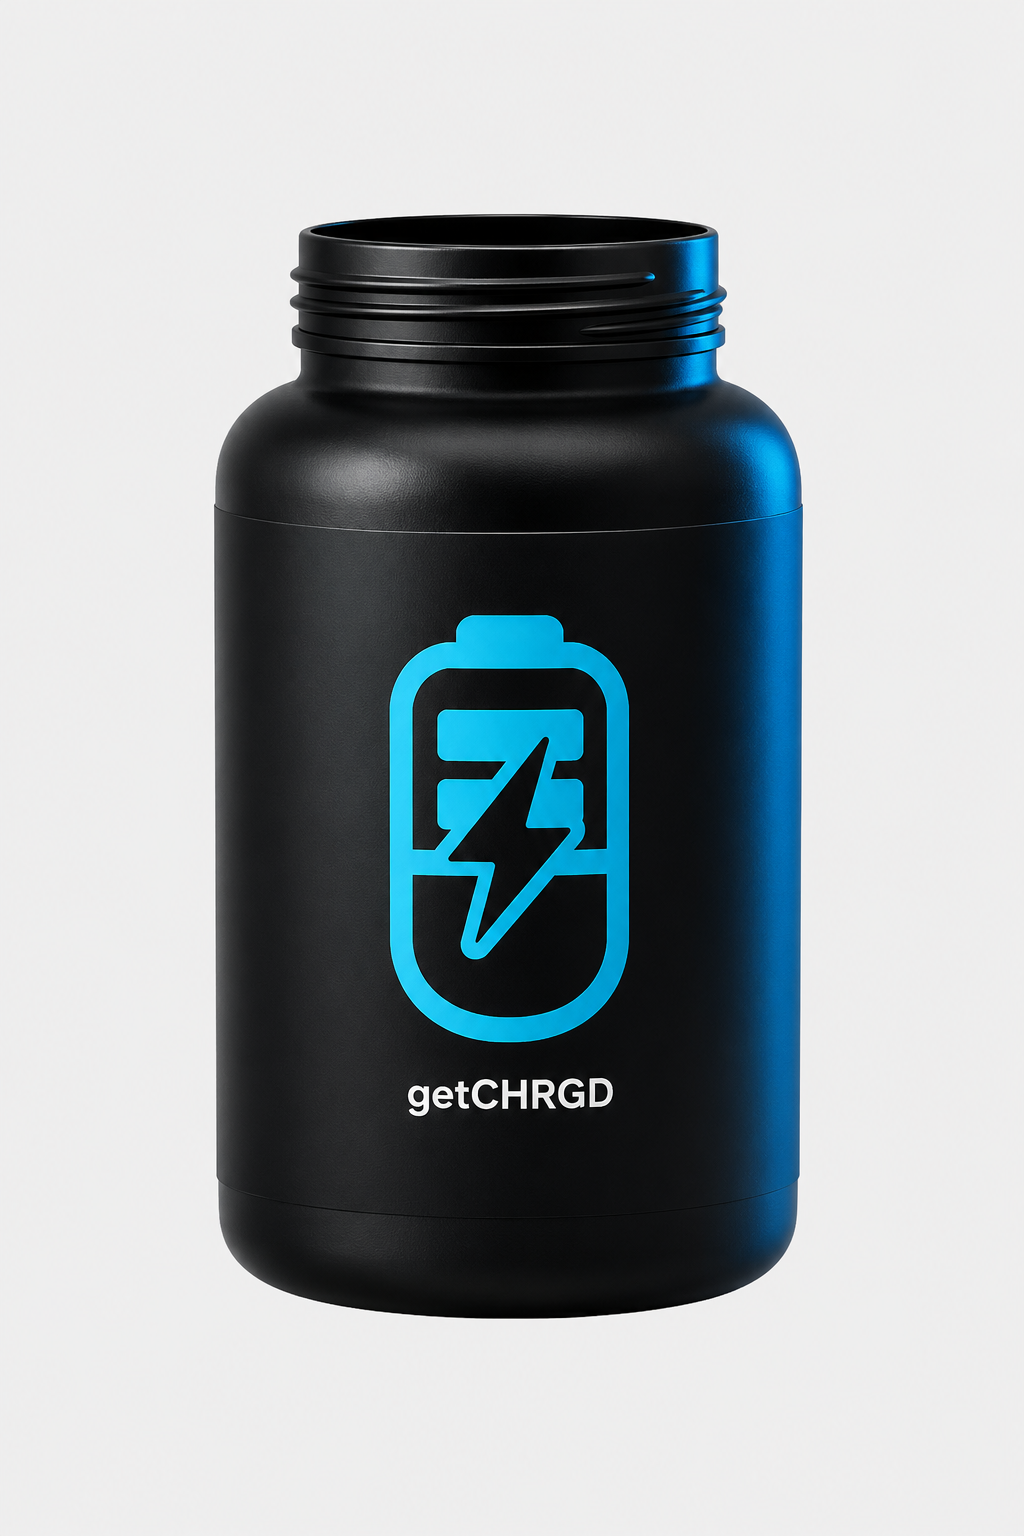
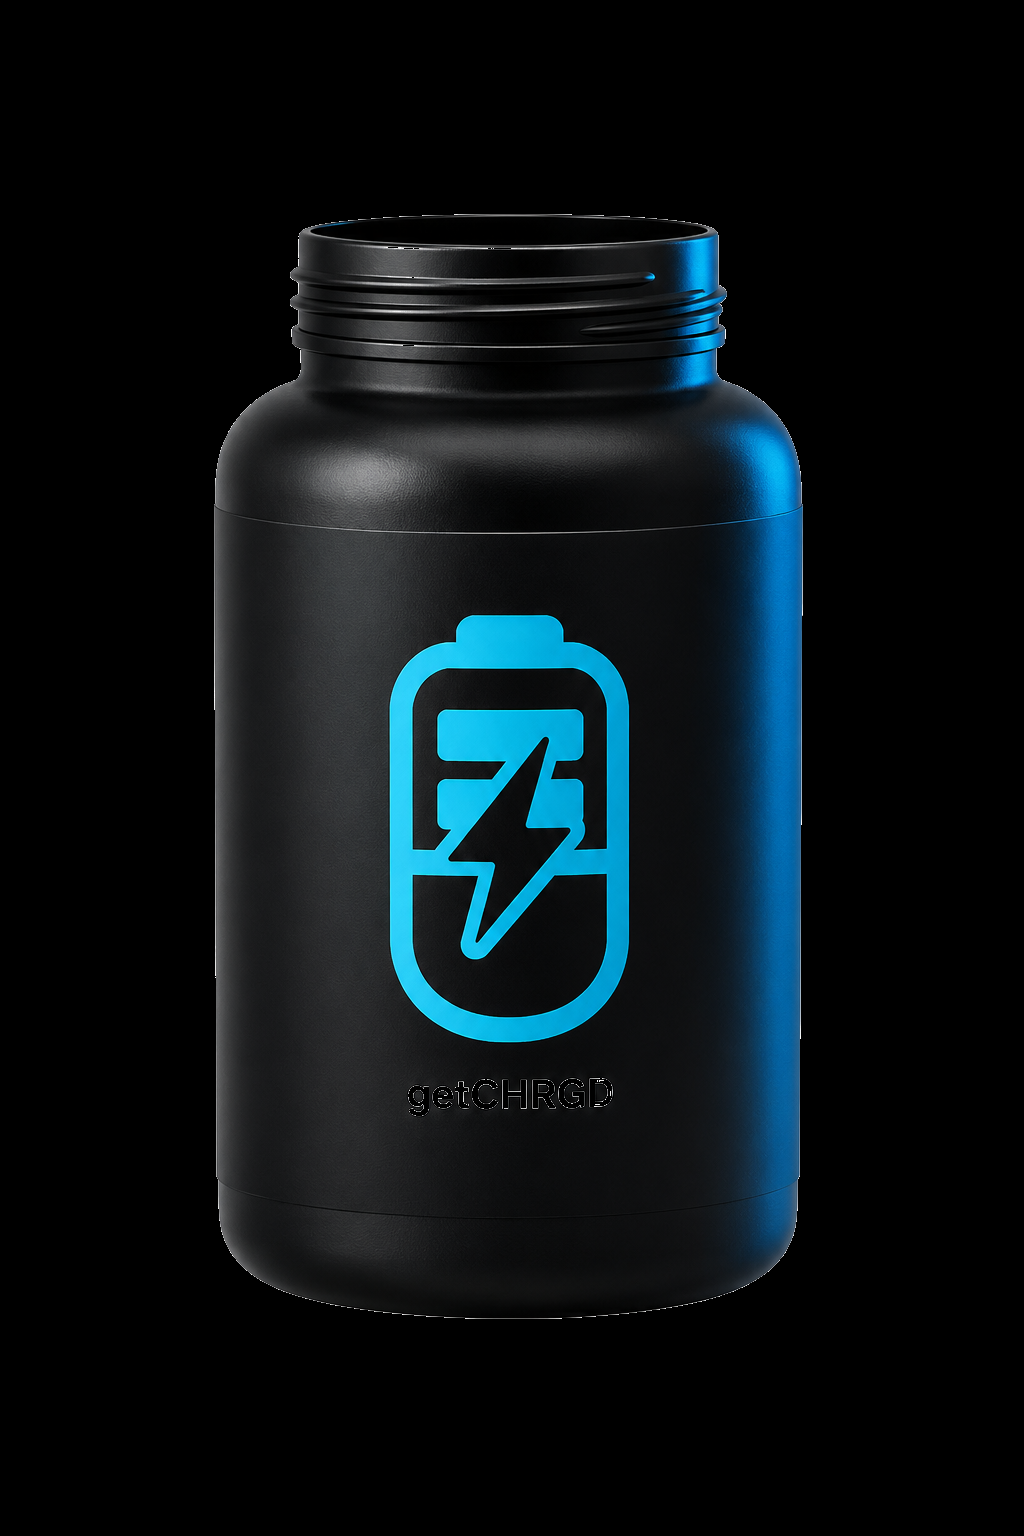
fix: remove white backgrounds from hero PNGs, fix lid sizing
Background removal: all 7 PNGs reprocessed via GDI+ LockBits with
Euclidean RGB distance threshold (38) + 28px feather. Format changed
from 24-bit (no alpha) to 32-bit ARGB. File sizes reduced 20-54%
confirming transparent regions were written.

Lid: increased rendered size from 120x80 → 200x133 (3:2 ratio, now
covers the full bottle shoulder). Positioning changed from SVG-derived
+32px offset to neckDepth formula (8% of bottle height ≈ 29px) so the
lid seats cleanly on the bottle top regardless of real PNG content.

Beat 2 lid lift increased to -140px to match new height.
Horizontal drift reduced to vw*0.02 (was 0.025).

diff --git a/src/components/scroll/Act1Hero.tsx b/src/components/scroll/Act1Hero.tsx
@@ -41,13 +41,13 @@ const INGREDIENTS = [
 ]
 
 // Rendered dimensions — derived from real PNG aspect ratios:
-//   bottle   1024 × 1536  → 2:3  → render at 240 × 360
-//   lid      1536 × 1024  → 3:2  → render at 120 × 80
-//   capsules 1983 × 793   → 2.5:1 → render at 100 × 40
+//   bottle   1024 × 1536  → 2:3   → 240 × 360
+//   lid      1536 × 1024  → 3:2   → 200 × 133  (covers full bottle shoulder)
+//   capsules 1983 × 793   → 2.5:1 → 100 × 40
 const BOTTLE_W  = 240
 const BOTTLE_H  = 360
-const LID_W     = 120
-const LID_H     = 80
+const LID_W     = 200
+const LID_H     = 133
 const CAP_W     = 100
 const CAP_H     = 40
 
@@ -127,10 +127,13 @@ export function Act1Hero({ onEnterQuiz, reducedMotion }: Props) {
     const bottleX = (vw - BOTTLE_W) / 2
     const bottleY = (vh - BOTTLE_H) / 2
 
-    // Lid: centred over bottle, bottom of lid overlaps top of bottle by ~18px
-    // so it looks physically seated. Adjust the overlap value if the seam is visible.
+    // Lid: centred over bottle. The lid PNG origin is at the bottom of the cap
+    // (per spec), so lidY bottom = bottleY + neckDepth where neckDepth is how far
+    // the bottle neck sits below the bottle's top edge (~10% of bottle height).
+    // Increase neckDepth to move the lid DOWN; decrease to raise it.
+    const neckDepth = Math.round(BOTTLE_H * 0.08)  // ≈ 29px — tweak if seam looks wrong
     const lidX = (vw - LID_W) / 2
-    const lidY = bottleY - LID_H + 18
+    const lidY = bottleY + neckDepth - LID_H
 
     // Capsule starting position: at bottle mouth (neck centre ~18% down bottle)
     const capStartX = (vw - CAP_W) / 2
@@ -247,11 +250,11 @@ export function Act1Hero({ onEnterQuiz, reducedMotion }: Props) {
       tl.to(sweepRef.current, { opacity: 0, duration: 0.25, ease: 'none' }, 0.85)
 
       // ── Beat 2 · THE OPENING (t 1.2 → 2.8) ──────────────────────────────
-      // Lid lifts: -120px, -14° rotation, 60% opacity
+      // Lid lifts: -140px, -14° rotation, 60% opacity
       tl.to(lidRef.current, {
-        x: L.lidX - L.vw * 0.025,
-        y: L.lidY - 120,
-        rotation: -14, scale: 1.04, opacity: 0.6,
+        x: L.lidX - L.vw * 0.02,
+        y: L.lidY - 140,
+        rotation: -14, scale: 1.03, opacity: 0.6,
         duration: 1.6, ease: 'none',
       }, 1.2)
       // Bottle counter-reaction: slight dip then recover
@@ -269,7 +272,7 @@ export function Act1Hero({ onEnterQuiz, reducedMotion }: Props) {
       }, 2.8)
       // Lid follows bottle leftward (keep relative to bottle neck)
       tl.to(lidRef.current, {
-        x: L.lidX + L.bottleShiftX - L.vw * 0.025,
+        x: L.lidX + L.bottleShiftX - L.vw * 0.02,
         duration: 1.3, ease: 'none',
       }, 2.8)
 
